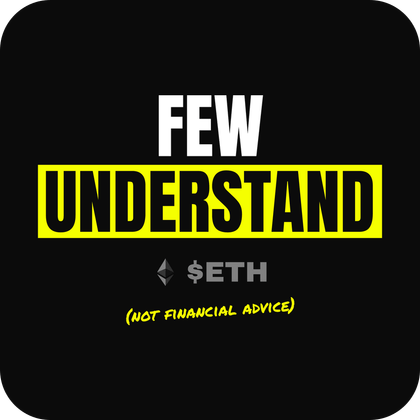
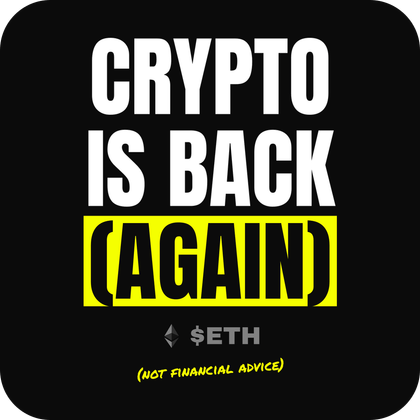
Add "On the timeline" meme drop from crypto X trends
Six new designs taken from what crypto X was posting (crypto is back
again, find a meme and pray, shill me your tickers, don't ask how much
I'm down, the green candle finds you) plus XRP, ZEC and SOL in-jokes.
The home page shows them as one-tap designs that open the studio
prefilled, which now accepts a slogan URL parameter. Three hero stickers
and the marquee use the new lines.

Changed region(s): [[0.0619, 0.0619, 0.9286, 0.8357], [0.3095, 0.8357, 0.681, 0.9286]]

diff --git a/src/app/page.tsx b/src/app/page.tsx
@@ -4,6 +4,8 @@ import { ProductCard } from "@/components/ProductCard";
 import { STYLES } from "@/lib/design/styles";
 import { BLANKS, BLANK_TYPES } from "@/lib/printful/blanks";
 import { formatPrice } from "@/lib/format";
+import { TIMELINE, TIMELINE_AS_OF } from "@/lib/timeline";
+import { getSlogan } from "@/lib/design/styles";
 
 export const dynamic = "force-dynamic";
 
@@ -82,6 +84,39 @@ export default async function Home() {
             <Link href="/generate" className="text-[var(--acid)] underline">Make the first one.</Link>
           </p>
         )}
+      </section>
+
+      {/* Memes from crypto X, each one opens in the studio ready to buy */}
+      <section className="mx-auto max-w-7xl px-4 py-12">
+        <div className="mb-8 border-b-2 border-[var(--line)] pb-4">
+          <h2 className="display text-5xl sm:text-6xl">On the timeline</h2>
+          <p className="mt-2 text-[var(--dim)]">
+            What crypto X was posting in {TIMELINE_AS_OF}. Tap one to put it on a shirt, or swap in your own coin.
+          </p>
+        </div>
+        <div className="grid grid-cols-2 gap-4 md:grid-cols-3">
+          {TIMELINE.map((m, i) => (
+            <Link
+              key={m.slogan}
+              href={`/generate?q=${m.ticker}&style=${m.style}&slogan=${m.slogan}`}
+              className="group block"
+            >
+              <div className="garment aspect-[5/6] border-2 border-[var(--line)] p-3 transition-colors group-hover:border-[var(--acid)]">
+                {/* eslint-disable-next-line @next/next/no-img-element */}
+                <img
+                  src={`/brand/meme-${i}.png`}
+                  alt={`$${m.ticker} “${getSlogan(m.slogan).lines.join(" ")}” design`}
+                  className="h-full w-full object-contain"
+                  loading="lazy"
+                />
+              </div>
+              <div className="display mt-2 text-2xl group-hover:text-[var(--acid)]">
+                {getSlogan(m.slogan).lines.join(" ")}
+              </div>
+              <p className="text-sm text-[var(--dim)]">{m.seen}</p>
+            </Link>
+          ))}
+        </div>
       </section>
 
       {/* Styles */}

diff --git a/src/lib/design/styles.ts b/src/lib/design/styles.ts
@@ -46,10 +46,19 @@ export const SLOGANS: Slogan[] = [
   { id: "exit-liquidity", lines: ["NOT YOUR", "EXIT", "LIQUIDITY"] },
   { id: "staying-poor", lines: ["HAVE FUN", "STAYING", "POOR"] },
   { id: "touch-grass", lines: ["WILL TOUCH", "GRASS", "AT ATH"] },
+  // From what crypto X was posting in October 2026.
+  { id: "crypto-is-back", lines: ["CRYPTO", "IS BACK", "(AGAIN)"] },
+  { id: "find-a-meme", lines: ["FIND A", "MEME AND", "PRAY"] },
+  { id: "shill-me", lines: ["SHILL ME", "YOUR", "TICKERS"] },
+  { id: "dont-ask", lines: ["DON'T ASK", "HOW MUCH", "I'M DOWN"] },
+  { id: "green-candle", lines: ["THE GREEN", "CANDLE", "FINDS YOU"] },
   { id: "one-btc", lines: ["1 BTC", "=", "1 BTC"], coins: ["BTC"] },
   { id: "stack-sats", lines: ["STACK", "SATS"], coins: ["BTC"] },
   { id: "ultrasound", lines: ["ULTRA", "SOUND", "MONEY"], coins: ["ETH"] },
   { id: "such-wow", lines: ["SUCH WOW", "VERY", "BULL"], coins: ["DOGE"] },
+  { id: "xrp-army", lines: ["XRP", "ARMY"], coins: ["XRP"] },
+  { id: "privacy-normal", lines: ["PRIVACY", "IS", "NORMAL"], coins: ["ZEC"] },
+  { id: "sol-summer", lines: ["SOLANA", "SUMMER"], coins: ["SOL"] },
 ];
 
 export const DEFAULT_SLOGAN = "hodl";
@@ -66,6 +75,8 @@ export function slogansFor(ticker?: string): Slogan[] {
     ...SLOGANS.filter((s) => !s.coins),
   ];
 }
+
+export const isSlogan = (v: unknown): v is string => typeof v === "string" && SLOGANS.some((s) => s.id === v);
 
 export const styleUsesSlogan = (style: StyleId) => STYLES.find((s) => s.id === style)?.slogan ?? false;
 

diff --git a/src/lib/timeline.ts b/src/lib/timeline.ts
@@ -1,0 +1,17 @@
+import type { StyleId } from "@/lib/design/styles";
+
+/**
+ * Memes lifted from what crypto X was posting, shown on the home page as
+ * ready-made designs. Art lives at public/brand/meme-<i>.png and is rendered by
+ * scripts/brand-assets.mts, so re-run that script after editing this list.
+ */
+export const TIMELINE_AS_OF = "October 2026";
+
+export const TIMELINE: { style: StyleId; ticker: string; slogan: string; seen: string }[] = [
+  { style: "slogan", ticker: "BTC", slogan: "crypto-is-back", seen: "Everyone said it. Again." },
+  { style: "box", ticker: "DOGE", slogan: "find-a-meme", seen: "The memecoin strategy, in full." },
+  { style: "receipt", ticker: "SOL", slogan: "dont-ask", seen: "The look, as a receipt." },
+  { style: "chart", ticker: "XRP", slogan: "green-candle", seen: "XRP Ledger was trending." },
+  { style: "stamp", ticker: "ZEC", slogan: "privacy-normal", seen: "ZEC is back on the timeline." },
+  { style: "pixel", ticker: "STRK", slogan: "shill-me", seen: "$STRK was trending. Shill us yours." },
+];

diff --git a/src/app/generate/page.tsx b/src/app/generate/page.tsx
@@ -1,9 +1,9 @@
 import { GenerateClient } from "@/components/GenerateClient";
-import { isStyle } from "@/lib/design/styles";
+import { isSlogan, isStyle } from "@/lib/design/styles";
 
 export const metadata = { title: "Make your own: CryptoThreads" };
 
-export default function GeneratePage({ searchParams }: { searchParams: { q?: string; style?: string } }) {
+export default function GeneratePage({ searchParams }: { searchParams: { q?: string; style?: string; slogan?: string } }) {
   return (
     <div className="mx-auto max-w-7xl px-4 py-10">
       <h1 className="display text-[clamp(3.5rem,9vw,7rem)]">Make your own</h1>
@@ -15,6 +15,7 @@ export default function GeneratePage({ searchParams }: { searchParams: { q?: str
         <GenerateClient
           initialQuery={searchParams.q?.slice(0, 64) ?? ""}
           initialStyle={isStyle(searchParams.style) ? searchParams.style : undefined}
+          initialSlogan={isSlogan(searchParams.slogan) ? searchParams.slogan : undefined}
         />
       </div>
     </div>

diff --git a/src/components/GenerateClient.tsx b/src/components/GenerateClient.tsx
@@ -30,11 +30,19 @@ function Step({ n, title, children }: { n: number; title: string; children: Reac
   );
 }
 
-export function GenerateClient({ initialQuery = "", initialStyle }: { initialQuery?: string; initialStyle?: StyleId }) {
+export function GenerateClient({
+  initialQuery = "",
+  initialStyle,
+  initialSlogan,
+}: {
+  initialQuery?: string;
+  initialStyle?: StyleId;
+  initialSlogan?: string;
+}) {
   const { add } = useCart();
   const [query, setQuery] = useState(initialQuery);
   const [style, setStyle] = useState<StyleId>(initialStyle ?? DEFAULT_STYLE);
-  const [slogan, setSlogan] = useState<string>("hodl");
+  const [slogan, setSlogan] = useState<string>(initialSlogan ?? "hodl");
   const [blank, setBlank] = useState<BlankType>("tee");
   const [size, setSize] = useState("M");
   const [preview, setPreview] = useState<Preview | null>(null);

diff --git a/src/components/Marquee.tsx b/src/components/Marquee.tsx
@@ -7,6 +7,8 @@ const ITEMS = [
   "$5 FLAT SHIPPING (US)",
   "NOT FINANCIAL ADVICE",
   "FEW UNDERSTAND",
+  "CRYPTO IS BACK (AGAIN)",
+  "FIND A MEME AND PRAY",
   "ANY COIN. ANY MEME.",
 ];
 
